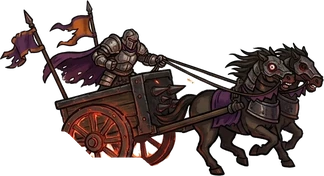
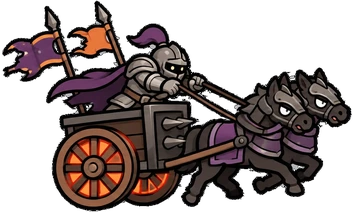
전차 장군(보스 8) 본체를 메인 화풍으로 교체, 폭주 바퀴 불꽃 위치 보정 (베타 1.296)
Claude-Session: https://claude.ai/code/session_01EFTEodMUbbTSUTixRFZg7z

diff --git a/client/src/bossfx.ts b/client/src/bossfx.ts
@@ -1224,8 +1224,8 @@ export async function createBossFx(d: BossFxDeps) {
     const s = Math.abs(scale);
     const dir = scale < 0 ? -1 : 1;
     const pulse = 0.75 + 0.25 * Math.sin(now / 70);
-    mark(id, "heatA", pick(T.heat, 2), x + dir * -74 * s, y - 24 * s, s * 0.95, 0.5 + 0.3 * pulse);
-    mark(id, "heatB", pick(T.heat, 1 + (Math.floor(now / 110) % 2)), x + dir * -6 * s, y - 18 * s, s * 0.85, 0.3 + 0.25 * pulse);
+    mark(id, "heatA", pick(T.heat, 2), x + dir * -72 * s, y - 19 * s, s * 0.95, 0.5 + 0.3 * pulse); // 큰 바퀴 중심(새 그림 기준)
+    mark(id, "heatB", pick(T.heat, 1 + (Math.floor(now / 110) % 2)), x + dir * -12 * s, y - 10 * s, s * 0.75, 0.3 + 0.25 * pulse); // 뒤쪽 둘째 바퀴
     for (const k of ["heatA", "heatB"]) {
       const sp = marks.get(`${id}:${k}`);
       if (sp) sp.zIndex = y + 3; // 장군 그림 위에 얹는다

diff --git a/docs/asset-prompts.md b/docs/asset-prompts.md
@@ -1459,3 +1459,5 @@ Character: a war chariot boss, the stage 8 boss of a dark fantasy mercenary game
 
 Avoid: realistic proportions, tall lean adult knight, long-legged horses, small head, photo, 3d render, gradients, glow blur, glossy highlights, painterly texture, thin or white outline, ground line, checkerboard pattern, detailed face, detailed eyes, realistic horses, motion lines, dust, sparks, flames, smoke, cropped or overlapping items, logo, watermark, any text other than the two captions.
 ```
+
+**13-8 진행**: 받음, 적용됨(베타 1.296). 기수(투구가 키의 절반)·말·수레 모두 짧고 통통한 치비 비율, 로고 없음. `assets/units/boss8_wheel.png`·`boss8_mad.png`(353x212 같은 캔버스; 이전 338x180보다 세로가 조금 큼), 예전 그림은 `_old`로 보관. 손본 것: 단색 회색 배경 제거, **`boss8_wheel`의 뒤쪽 두 번째 바퀴에 들어 있던 주황빛을 나무색으로 교체**(폭주 불꽃은 코드가 얹으므로 평소 그림은 달아오르면 안 된다). **폭주 이펙트(`wheelHeat`) 위치를 새 바퀴에 맞춰 `bossfx.ts`의 오프셋을 고쳤다**: 큰 바퀴 (-74,-24)→(-72,-19)(지름 83px로 이전과 같아 크기 그대로), 둘째 바퀴 (-6,-18)→(-12,-10), 배율 0.85→0.75. 정지 이미지에 코드와 같은 규칙으로 불꽃을 겹쳐 확인했다. 이펙트 그림(`assets/fx/boss8_*`: 폭주 불꽃·충돌 등)은 예전 그림이다. 다음은 스테이지 9 네크로맨서.
